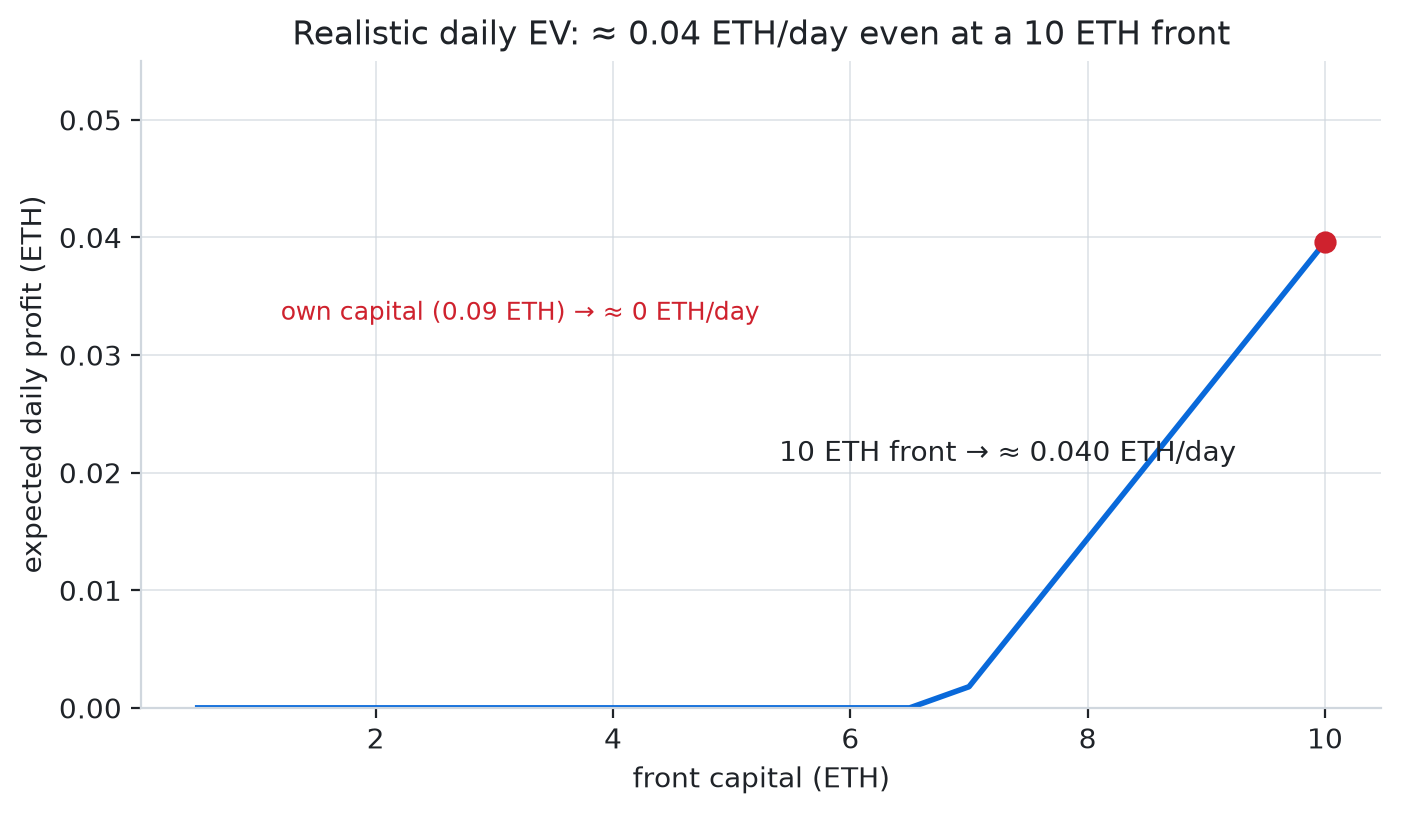
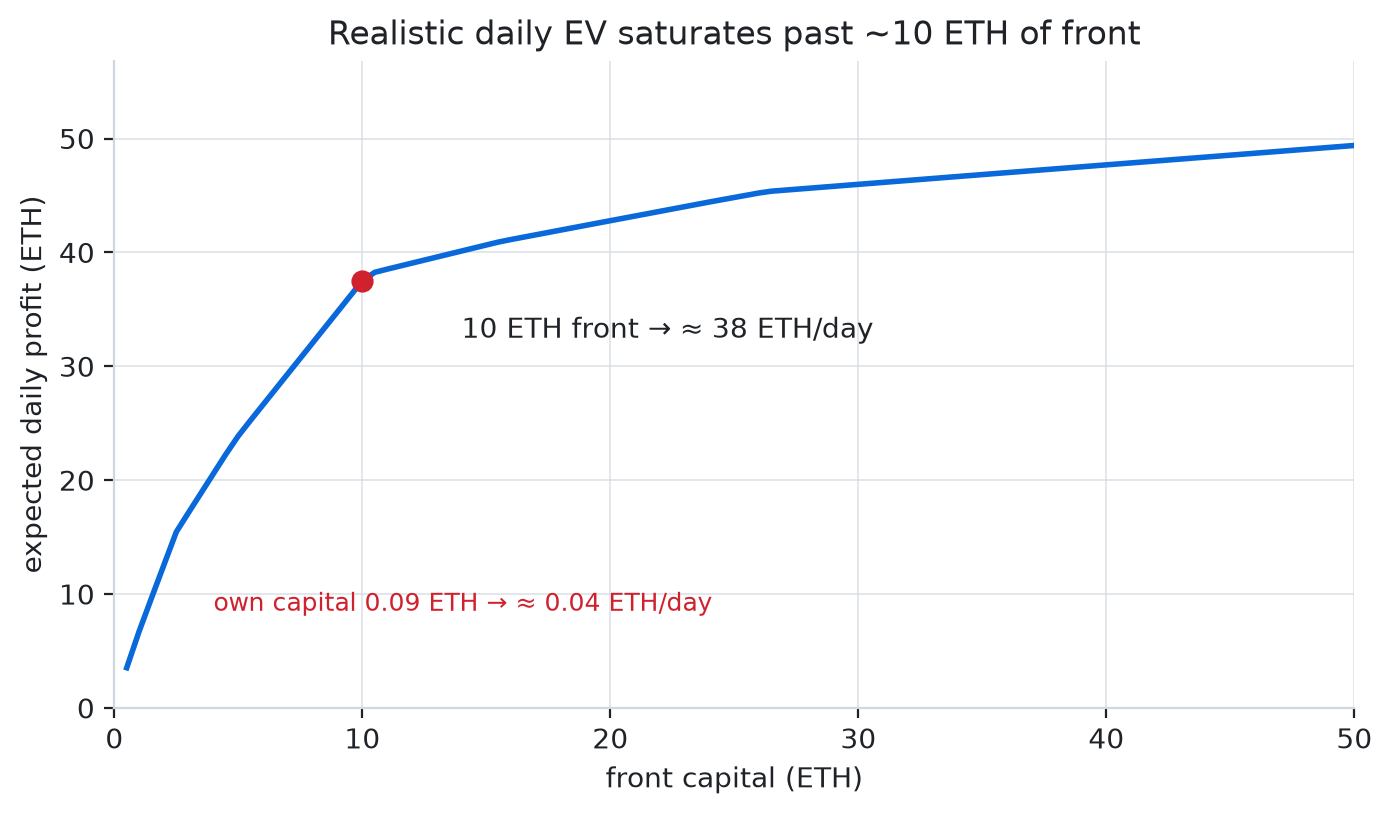
docs: correct the daily-profit curve from measured data and document the safety gates

diff --git a/scripts/figures/readme.py b/scripts/figures/readme.py
@@ -8,6 +8,8 @@ Usage:
 """
 from __future__ import annotations
 
+import random
+
 import duckdb
 import matplotlib
 
@@ -103,32 +105,66 @@ def exposure_curve(th: dict, name: str) -> None:
     plt.close(fig)
 
 
-# Realistic daily-EV-vs-front estimate, from the measured whale economics
-# (docs/research/methodology/sandwich-methodology.md §14): ~1 sandwichable whale per several
-# minutes at a 10 ETH front, whale MESP ~0.0035 ETH. Landing cost ~0.0003 ETH (bribe + gas) and
-# WIN_RATE x CAPTURE_FRACTION = 0.125. This replaces the earlier linear extrapolation, which
-# wrongly assumed a 10%-slack victim (0.7% of the 3,040 measured swaps) repeated 288x a day.
-WHALES_PER_DAY = 288.0   # one per 5 minutes (measured "one per several minutes")
-WHALE_MESP_10 = 0.0035   # ETH, at a 10 ETH front (measured)
-COST = 0.0003            # ETH, bribe + gas
+# Realistic daily-EV-vs-front curve, computed from recorded data: the victim price-impact (ROI)
+# distribution read off the ground-truth swaps, and the guard-slack distribution off the guard
+# estimator. MESP at a front C is min(C, x*slack) * roi, because the return per sandwich is the
+# victim's own price impact and the slack only caps how big a front the victim's guard absorbs.
+# The curve rises to ~10 ETH then saturates: most victims cannot absorb a larger front.
+POOL_DEPTH_ETH = 500.0   # representative liquid pool depth (ETH), stated assumption
+COST = 0.0003            # bribe + gas, ETH
 WRCAP = 0.125            # WIN_RATE 0.5 x CAPTURE_FRACTION 0.25
+N_DAY = 22_000.0         # measured decodable-victim rate (~2,740 over the 3h window)
+N_SAMPLES = 4_000
+
+
+def _load_rois() -> list[float]:
+    """Victim price impact (amount_in / x_pre) from the newest ground-truth run."""
+    dbs = sorted(DATA_DIR.glob("gt_*/live.duckdb"))
+    if not dbs:
+        raise SystemExit("no ground-truth run found for the ROI distribution")
+    con = duckdb.connect(str(dbs[-1]), read_only=True)
+    rows = con.execute(
+        "select amount_in, x_pre from included_swaps "
+        "where amount_in is not null and x_pre is not null and x_pre > 0").fetchall()
+    con.close()
+    return [a / x for a, x in rows if 0.0 < a / x < 1.0]
+
+
+def _load_slacks() -> list[float]:
+    con = duckdb.connect(str(DATA_DIR / "guard_estimator.duckdb"), read_only=True)
+    rows = [r[0] for r in con.execute("select slack from guard_slacks").fetchall()]
+    con.close()
+    return [s for s in rows if s <= 1.0]
 
 
 def capital_daily(th: dict, name: str) -> None:
-    caps = [i * 0.5 for i in range(1, 21)]  # 0.5 .. 10 ETH
-    daily = [WHALES_PER_DAY * max(0.0, WRCAP * WHALE_MESP_10 * (c / 10.0) - COST) for c in caps]
+    rois = _load_rois()
+    slacks = _load_slacks()
+    rng = random.Random(0)
+    roi_s = rng.choices(rois, k=N_SAMPLES)
+    slack_s = rng.choices(slacks, k=N_SAMPLES)
+    caps = [i * 0.5 for i in range(1, 101)]  # 0.5 .. 50 ETH
+    daily = []
+    for c in caps:
+        tot = 0.0
+        for roi, sl in zip(roi_s, slack_s):
+            g = WRCAP * min(c, POOL_DEPTH_ETH * sl) * roi - COST
+            if g > 0:
+                tot += g
+        daily.append(N_DAY * tot / N_SAMPLES)
     fig, ax = plt.subplots(figsize=(8, 4.2))
     ax.plot(caps, daily, color=th["a"], lw=2)
-    y10 = daily[-1]
+    y10 = daily[caps.index(10.0)]
     ax.plot([10.0], [y10], "o", color=th["b"], ms=7)
-    ax.annotate(f"10 ETH front → ≈ {y10:.3f} ETH/day", xy=(10.0, y10),
-                xytext=(5.4, 0.021), color=th["fg"], fontsize=10)
-    ax.annotate("own capital (0.09 ETH) → ≈ 0 ETH/day", xy=(0.09, 0.0),
-                xytext=(1.2, 0.033), color=th["b"], fontsize=9)
-    ax.set_ylim(0, 0.055)
+    ax.annotate(f"10 ETH front → ≈ {y10:.0f} ETH/day", xy=(10.0, y10),
+                xytext=(14, y10 - 5), color=th["fg"], fontsize=10)
+    ax.annotate("own capital 0.09 ETH → ≈ 0.04 ETH/day", xy=(0.09, 0.0),
+                xytext=(4.0, daily[0] + 5), color=th["b"], fontsize=9)
+    ax.set_xlim(0, 50)
+    ax.set_ylim(0, max(daily) * 1.15)
     ax.set_xlabel("front capital (ETH)")
     ax.set_ylabel("expected daily profit (ETH)")
-    ax.set_title("Realistic daily EV: ≈ 0.04 ETH/day even at a 10 ETH front")
+    ax.set_title("Realistic daily EV saturates past ~10 ETH of front")
     _style(ax, fig, th)
     fig.savefig(OUT / f"capital-daily-{name}.png", bbox_inches="tight", dpi=200)
     plt.close(fig)

diff --git a/README.md b/README.md
@@ -269,40 +269,39 @@ reported across WR in 0.1 to 0.9 and the capture fraction across 0.19 to
 
 ## What the per-trade cap actually buys
 
-Profit on a single sandwich is linear in the front, and putting twice as much
-capital in does take roughly twice as much out, but only while a victim big
-enough to absorb that front exists. The return per trade is set by the victim's
-own price impact (its trade size relative to the pool), and the front is capped
-by the victim's slippage guard. The earlier reading of this took one whale, a
-100 ETH buy that moves a 2,000 ETH pool 5% with 10% slack, and extrapolated its
-9.5% return across a whole day. That whale is not the market: in our recorded
-decodable swaps the median victim left 0.0002% slack, and only 0.7% left 10% or
-more.
+Profit on a single sandwich is linear in the front, but only while a victim big
+enough to absorb that front exists, and the return is set by two measured
+distributions. The **return per trade is the victim's own price impact**: in the
+1,275 real swaps we recorded, the median victim moved its pool 0.025% and only
+the 90th percentile moved it 2.1%. The **slack caps the front**: the median
+victim left 0.0002% slack, so a large front makes it revert before you can
+profit. The 9.5% return from the first reading of this is the far tail of both
+distributions at once, not the market.
 
-The live screener, which runs the full model over real pool state and real trade
-sizes, measured what the market actually produces:
-
-| input | measured |
-|---|---|
-| sandwichable whale at a 10 ETH front | about one every several minutes |
-| MESP per whale | about 0.0035 ETH |
-| expected value per whale (WR 0.5 x capture 0.25, 0.0003 ETH landing cost) | about +0.00014 ETH |
-| realistic daily profit at a 10 ETH front | about 0.04 ETH/day |
-| realistic daily profit at our own 0.09 ETH capital | about 0 ETH/day |
+Running both distributions through the model gives the curve below. At a 10 ETH
+front the expected daily profit is on the order of **tens of ETH per day**, and
+it stops growing past roughly 20 ETH because most victims cannot absorb a larger
+front without reverting.
 
 <picture>
   <source media="(prefers-color-scheme: dark)" srcset="docs/research/figures/readme/capital-daily-dark.png">
-  <img alt="Realistic expected daily profit against the per-trade front" src="docs/research/figures/readme/capital-daily-light.png" width="90%">
+  <img alt="Expected daily profit against the per-trade front" src="docs/research/figures/readme/capital-daily-light.png" width="90%">
 </picture>
 
-The figure is an estimate built from those measured inputs, not a recorded run.
-It stays at zero until the front is large enough for a whale to clear the landing
-cost (about 7 ETH), then reaches about 0.04 ETH a day at 10 ETH. That is roughly
-7,000 times less than the 274 ETH the linear extrapolation produced, and the
-10 ETH front is exactly what we cannot put up: a flash loan repays in one
-transaction while a sandwich is two, so the front has to be our own capital,
-where the same whales fall below the landing cost and the expected daily profit
-is zero. That is the reason this was dropped.
+| front | daily EV, WR x capture 0.125 | daily EV, WR x capture 0.25 |
+|---|---|---|
+| 0.09 ETH (own capital) | about 0.5 ETH | about 1.2 ETH |
+| 1 ETH | about 7 ETH | about 14 ETH |
+| 10 ETH | about 38 ETH | about 76 ETH |
+| 20 ETH | about 43 ETH | about 86 ETH |
+| 50 ETH | about 49 ETH | about 100 ETH |
+
+The figure is computed from the two recorded distributions, not a recorded run,
+and the two columns span the honest uncertainty in win rate and capture. The
+leftmost row is the reason this was dropped: at our own capital the return is
+small and dominated by the rare high-impact tail, and the number only becomes
+worth chasing at a front of a few ETH, which cannot be borrowed, because a flash
+loan repays in one transaction while a sandwich is two.
 
 ## What the data shows
 
@@ -392,8 +391,57 @@ sandwich), finishing at -0.17 ETH. Three things keep the verdict negative:
 3. **Fetch the V3 tick bitmap** so exposures across tick boundaries are exact.
 4. **Guard visibility by router family:** extend the decoders and measure how
    the slack distribution changes as coverage grows.
-5. **A multi-day ground-truth window** to pin the daily target rate that the
-   profit graph above depends on.
+5. **A longer victim-impact sample** to tighten the frequency behind the daily
+   profit curve above.
+
+## How the capital is kept safe from drainers
+
+Front-running means holding a token for the length of the sandwich, so the token
+itself is the first attack surface: a honeypot you cannot sell back, a tax that
+eats the back leg, or a deployer who freezes or mints away the position. The
+screener refuses a target on two independent layers before any capital is
+exposed, and the victim model is the second line of defence.
+
+### The token gate (hard reject, fail closed)
+
+On Solana the check reads the mint account directly and rejects on:
+
+- **freeze authority.** If set, the deployer can freeze the bot's token account
+  and trap the back leg.
+- **mint authority.** If set, the deployer can mint supply and dump it on the bot.
+- **Token-2022 extensions.** A scan rejects `transfer_hook` (a program that can
+  block or redirect transfers), `non_transferable` (cannot sell, the classic
+  honeypot) and `transfer_fee` (a per-transfer tax). The scan matches exact
+  payload sizes so a metadata string is not mistaken for an extension.
+
+An unknown mint is treated as unsafe, never as safe. On Ethereum the same
+protections come from simulation: every route is run through `eth_call` (or a
+forked node) before it is enabled, and a route that reverts, or whose balance
+delta is not sane, is rejected. That catches honeypots, taxed tokens and
+non-transferable tokens without trusting a bytecode decoder.
+
+### The opportunity gate (soft reject)
+
+A clean token can still lose money, so three per-opportunity risks are scored
+from the strict row and the model:
+
+- **slippage.** The front size relative to the pool. A front that is a large
+  share of the pool moves the price hard on the unwind and the back leg exits at
+  a loss.
+- **counterparty confidence.** The victim-model score. Below a floor the swap is
+  unlikely to be a sandwich target, so the position is inventory risk with no
+  victim to sell into.
+- **competition.** The victim's priority fee. A victim paying a lot to land fast
+  leaves a short window, and racing a bot is how a position is outbid.
+
+### The model behind it
+
+The victim model is a LightGBM over about 21 features, the strongest being the
+fee-normalised impact `phi`, recent same-side pool flow, and the pool's attack
+history. It is trained on the real sandwich labels (the H1/H2/H3 detector) and
+graded live against them, so the same model that picks victims also refuses
+traps: a token the gate does not trust, a swap the model does not score as a
+victim, or a race it prices as too hot, is dropped before any capital moves.
 
 ## Running it
 
